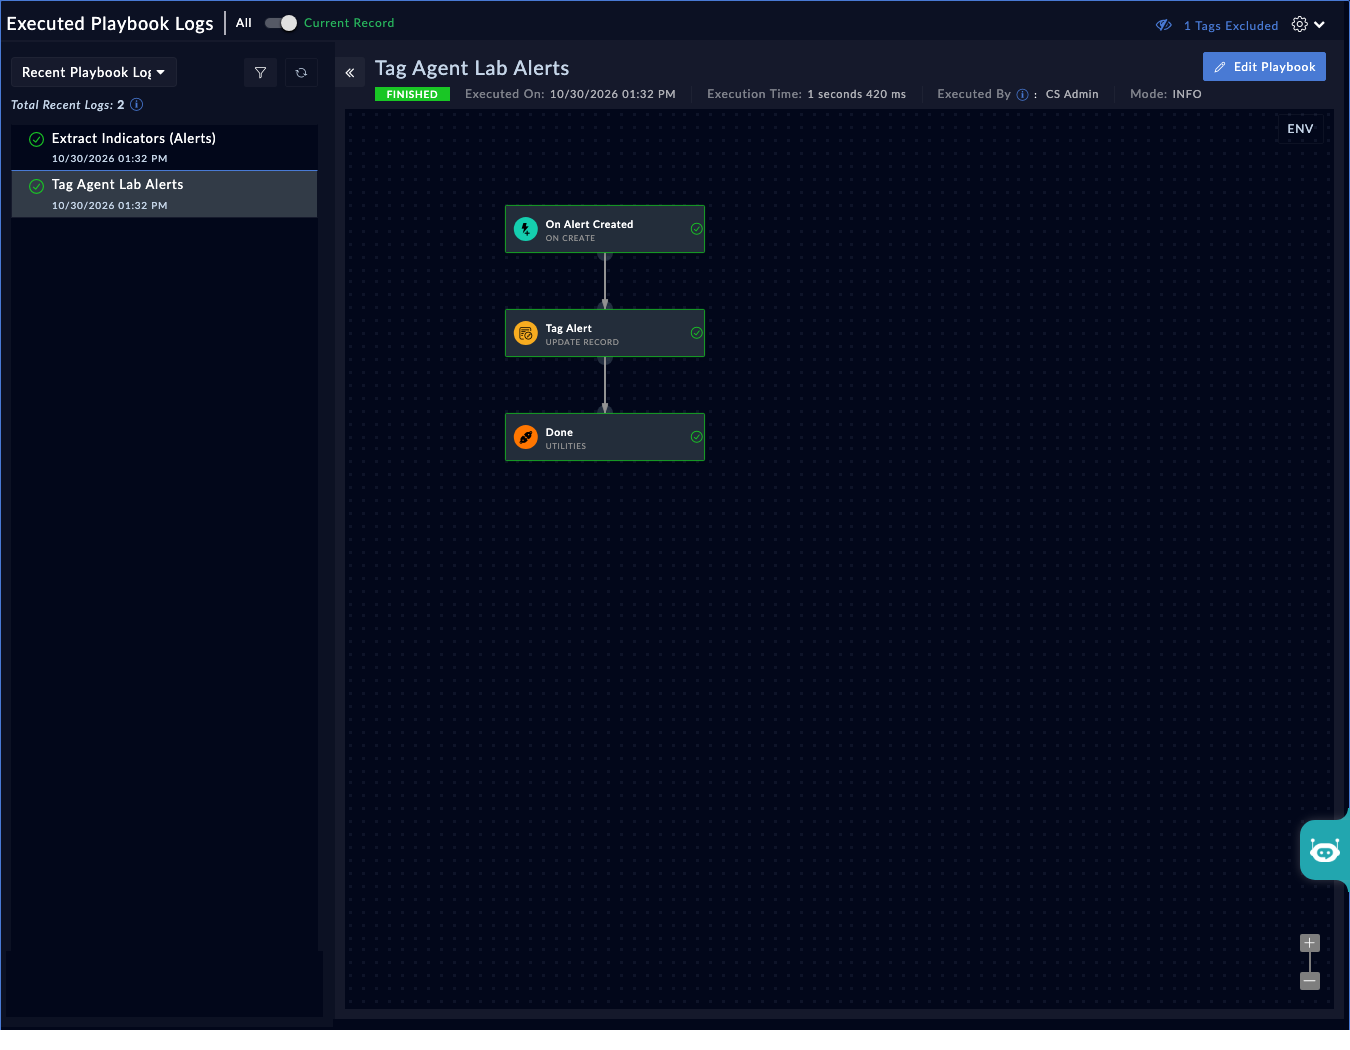
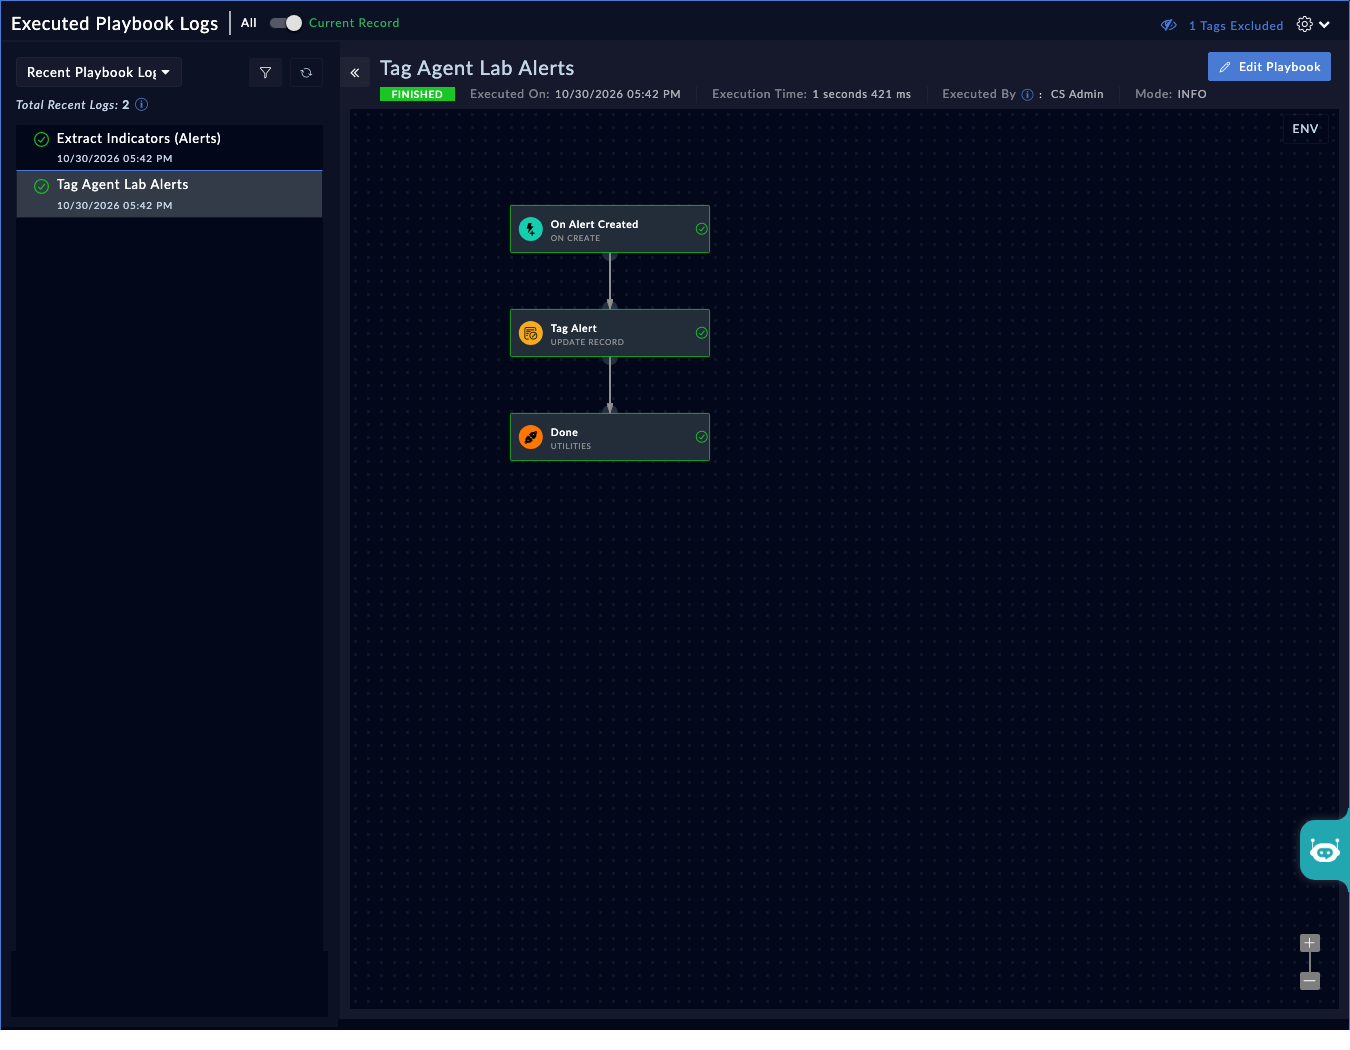
ch08: drop dumb masking on the canvas and run-history shots
Replace uiMask/scrub:false with the scrub backstop on (skipping only date-or-time
and key-like-token, since the designer and run-history show dates and run UUIDs,
never a lab host or key). Regenerated the run-history capture; the canvas shot is
unchanged (no URL was ever on it).

diff --git a/docubot/08-playbook/chapter.spec.ts b/docubot/08-playbook/chapter.spec.ts
@@ -21,7 +21,13 @@
 import * as fs from 'fs';
 import * as path from 'path';
 import { expect, openPlaybook, openPlaybookLogs, openRecord, test } from 'docubot';
-import { agentTurn, labSeed, promptFor, shouldRunStep, startAgent, toolkit, uiMask } from '../lib/agentlab';
+import { agentTurn, labSeed, promptFor, shouldRunStep, startAgent, toolkit } from '../lib/agentlab';
+
+// Mask only truly sensitive values; the scrub backstop still refuses a real lab
+// IP, hostname, key or sensitive term. Designer/run-history pages show dates and
+// record/run UUIDs (read as key-like tokens but not secrets, and no real key
+// renders here), so those categories are skipped for these shots.
+const SKIP_RECORD = { scrubSkip: ['date-or-time', 'key-like-token'] };
 
 test.describe.configure({ mode: 'serial' });
 
@@ -132,7 +138,7 @@ test('chapter 8 - playbook', async ({ gui, local, capture }) => {
     const canvas = soar.locator('#designer-container');
     await expect(canvas, `designer canvas for ${TAG_PLAYBOOK} did not load`).toBeVisible({ timeout: 40_000 });
     await expect(canvas).toContainText('Tag Alert', { timeout: 30_000 });
-    await capture.shot(soar, 'fsa08-02-publish-playbook-canvas', { mask: uiMask(soar), scrub: false });
+    await capture.shot(soar, 'fsa08-02-publish-playbook-canvas', SKIP_RECORD);
   });
 
   if (shouldRunStep('fsa08-03-trigger-and-verify')) await test.step('fsa08-03-trigger-and-verify', async () => {
@@ -172,8 +178,7 @@ test('chapter 8 - playbook', async ({ gui, local, capture }) => {
     await openPlaybookLogs(soar, { select: 'Tag Agent Lab' });
     await capture.shot(soar, 'fsa08-03-trigger-and-verify-run-history', {
       target: soar.locator('#mySidenav'),
-      mask: uiMask(soar),
-      scrub: false,
+      ...SKIP_RECORD,
     });
   });
 
